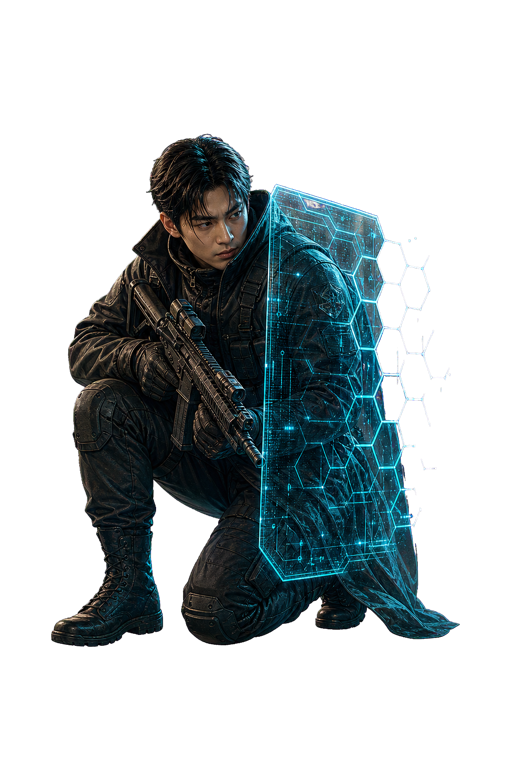
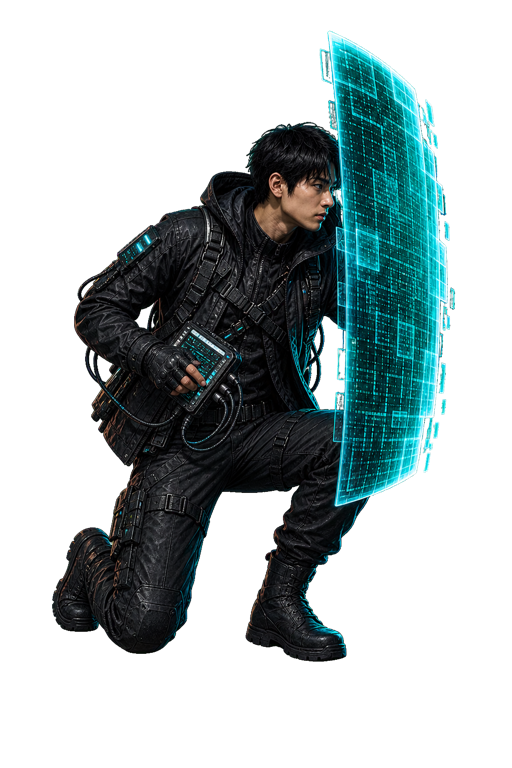
feat(art): complete cover-pose identity regeneration

diff --git a/docs/NEXT_PLAN.md b/docs/NEXT_PLAN.md
@@ -12,7 +12,7 @@ Authority QA: `docs/test/neo_seoul_live_qa.md`. **Latest deploy = `mythos-api-00
 
 ### Live playtest triage 2026-07-11 (owner session on 00042-97c) — diagnosed, fixes need owner scope pick
 - `[x]` **07-11 트리아지 배치 전체 DONE** — 전투 A/V 싱크 A+B+C(`654bdd0`/`6571351`) · drone_scrap few-shot 중립화 · 미등장 아군 HOLD("이름+대사 필수" 규칙 포함) · 프로덕션 이미지 실패 재시도 + Imagen 쿼터 1→30/min(`40ccaea`) · 용어 직관화 용어집 11종/naming 가드(`ece8e08`) · EN 오프닝 카드 패리티(`8a9362a`) — 상세 `bin/docs/archive/progress-2026-07.md`. 잔여 `[ ]` `[manual]` 항목별 라이브 체감은 `docs/test/neo_seoul_live_qa.md`가 권위 (구 `imagen-3.0` 쿼터 증액 신청은 lever#3 모델 이관으로 폐기 — Gemini 429 관찰로 대체).
-- **전투 갈아엎기**: 리서치 → `docs/plans/2026-07-11-combat-redesign-research.md` (A안 권고). **P0 DONE (`139587b`)**: 완전 텔레그래프(⚔+주사위 피해+공격선) · 아레나 전부 10×7 · 지형 스프라이트 레이어(에셋 없으면 기존 룩 폴백). 남음: `[ ]` `[manual]` P0 실플레이 재체감 on 00045 (텔레그래프 "안 바뀜" = stale-radar 버그였음 → `055fa9d` 수정+배포; 그리드 페이스·텔레그래프 가독) · `[x]` `[auto:agy]` **지형 타일 아트 3종 DONE (`37afcd2`) — `resources/neo-seoul/combat/tiles/{floor,cover_half,cover_full}.png` (FLUX 아이소 타일; FLUX는 불투명 RGB라 canvas 계약의 투명 모서리 위배 → floor=기하 다이아몬드 알파 마스크, cover=근흑 루미넌스 키로 후처리) · **P1 밀기/당기기 DONE** (`5d75d63` `_skill_displace` 지형 상호작용 — overload_strike push:1 + `magnetic_pull` 당기기 스킬; **명중확률 유지**=오너 지시, 무확률 제거는 안 함) + **엄폐 배지 DONE** (`508ad72` 🛡+3/+6). `[x]` **엄폐 포즈 배선 DONE (claude 인계)** — 엄폐 칸 위 유닛은 웅크림 포즈 렌더: pose `"cover"` + `<char>-cover.png` 파생 규약(guard/idle 경로에서 유도), 스프라이트 로드 실패 시 guard 포즈 폴백; +3 소스락 tests. `[x]` `[auto:codex]` 크라우치 스프라이트 1차 생성(`4d5b3be`) → **오너 리젝** (동일 템플릿 + 정체성 뒤섞임). `[ ]` `[auto:codex]` **엄폐 포즈 아트 정체성 재생성 (7장 전부 — 오너 2차 리젝 반영; Blocker #1)** — 브리프 `scratch/codex-cover-pose-brief.md` **필수 준수** (캐릭터별 정체성 앵커 + 자기 guard/idle 스프라이트를 생성 레퍼런스로 첨부 + 승격 전 정체성 셀프체크 5항 + 7장 포즈 전부 상이). criterion: **부분 승격 허용** — 셀프체크 PASS 장은 즉시 승격·커밋, FAIL 장만 재생성(장당 2회, 잔여 FAIL은 그 장만 Blocker) + `outputs/cover-pose-regen/review.md` 체크표 + `make check` green. **재개: codex 쿼터 리셋(03:29) 후 `--once` 재실행.** (1차 재생성 Blocker #1: player-noise 실드가 초록 아닌 무채색 → 전항-PASS 기준이 7장 전부 미승격시킴 — 기준을 부분 승격으로 완화. 커밋 후 러너 image-judge 게이트가 정본 대조, FAIL=자동 revert.) · `[x]` `[auto:codex]` `magnetic_pull` 전용 아이콘 재생성 DONE (기존 `emp_pulse` 복사 플레이스홀더 교체; `make check` green).
+- `[x]` `[auto:codex]` **엄폐 포즈 아트 정체성 재생성 DONE (7장 전부 — owner second-rejection feedback)** — all seven reviewed PASS sprites are promoted after per-character guard/idle reference checks; `outputs/cover-pose-regen/review.md` contains the five-point check table and `make check` is green (993 tests).
 
 ### Narrative clarity audit follow-ups (2026-07-10, 4-lane audit)
 - `[ ]` `[manual]` **Track 4 balance playtest** — play-style consequence system now ON (`advance_route` axis tally → intent flag @ threshold 2); play two loops in different styles, confirm story/results diverge + balance OK, tune threshold/mapping if needed. **B4 stat-tag** decision rides along (`(민첩)` reads as a check but has 0 effect — make real or restyle).

diff --git a/docs/PROGRESS_LOG.md b/docs/PROGRESS_LOG.md
@@ -2,6 +2,13 @@
 
 Last updated: 2026-07-12
 
+## 2026-07-12 — overnight Codex: cover-pose regeneration completed
+- Status: Done; all seven owner-rejection replacements are now promoted.
+- Changed: generated and identity-reviewed lin-yue, su-ah, tae-o, han, and player-noise cover sprites from their own idle/guard references; promoted the five new PASS candidates alongside the prior se-rin and kai promotions.
+- Verified: all five new sprites are 512×768 RGBA PNGs with transparent corners; each passed the five-point identity, shield, prop, and distinct-pose review in `outputs/cover-pose-regen/review.md`; `make check` green (993 tests).
+- Blockers: none.
+- Next: the Codex lane is drained; the runner image-judge must screen this asset commit before any deployment.
+
 ## 2026-07-12 — overnight Codex: cover-pose regeneration partial promotion
 - Status: In progress; two of seven identity-reviewed candidates promoted, remaining five stay pending.
 - Changed: regenerated `se-rin-cover.png` and `kai-cover.png` from each character's guard/idle references; preserved chroma-key sources and RGBA candidates in `outputs/cover-pose-regen/` with a per-character review table.
